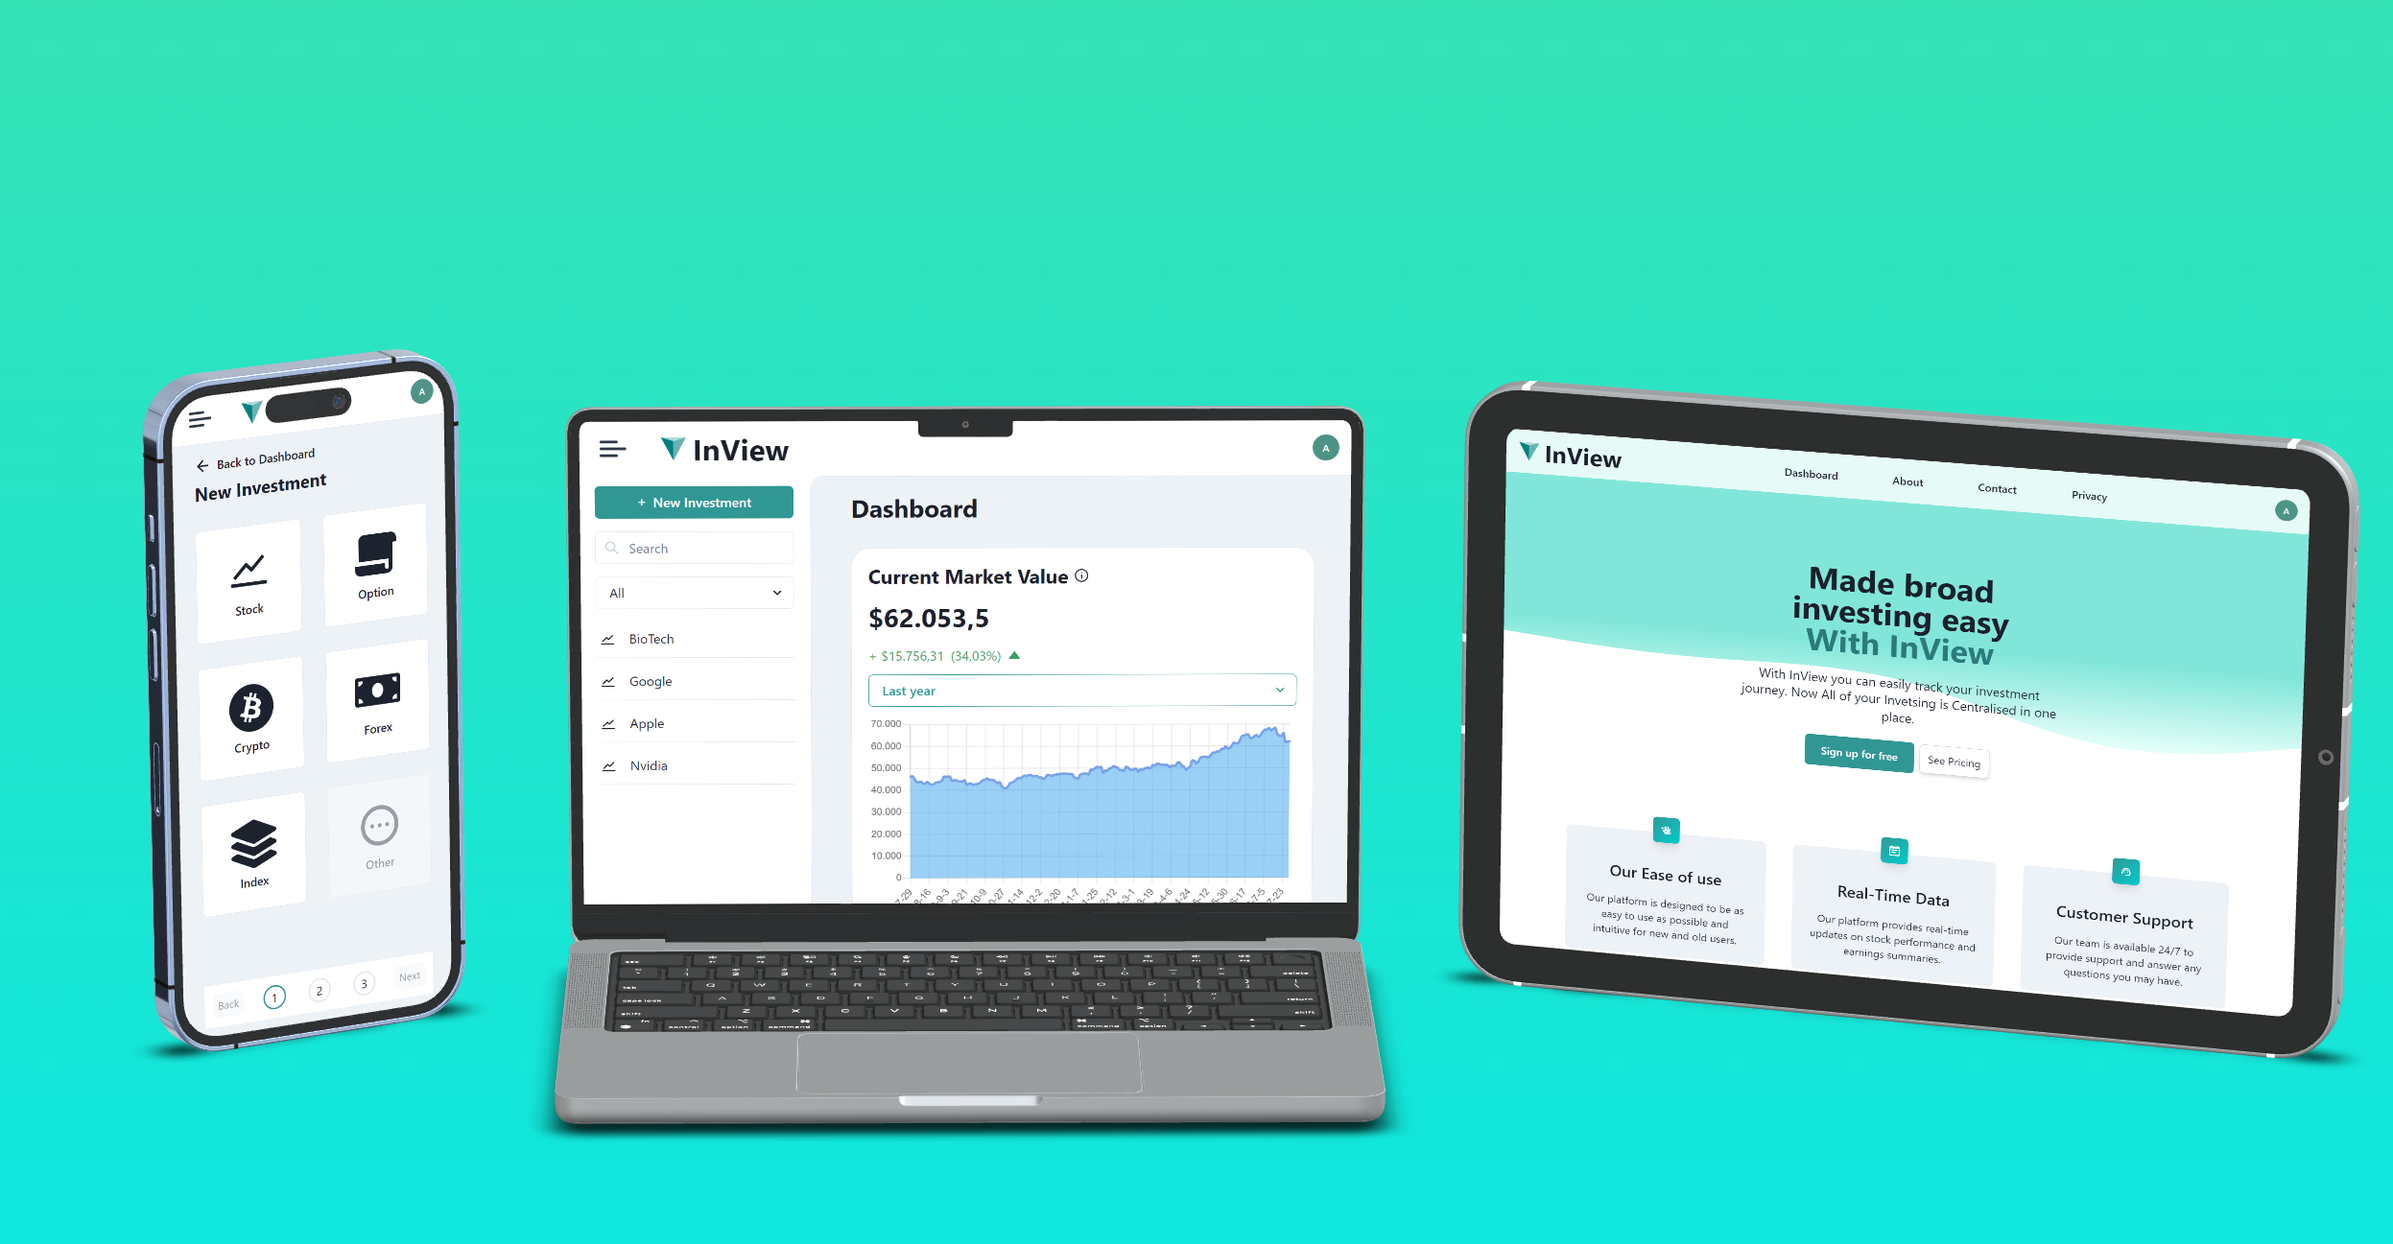
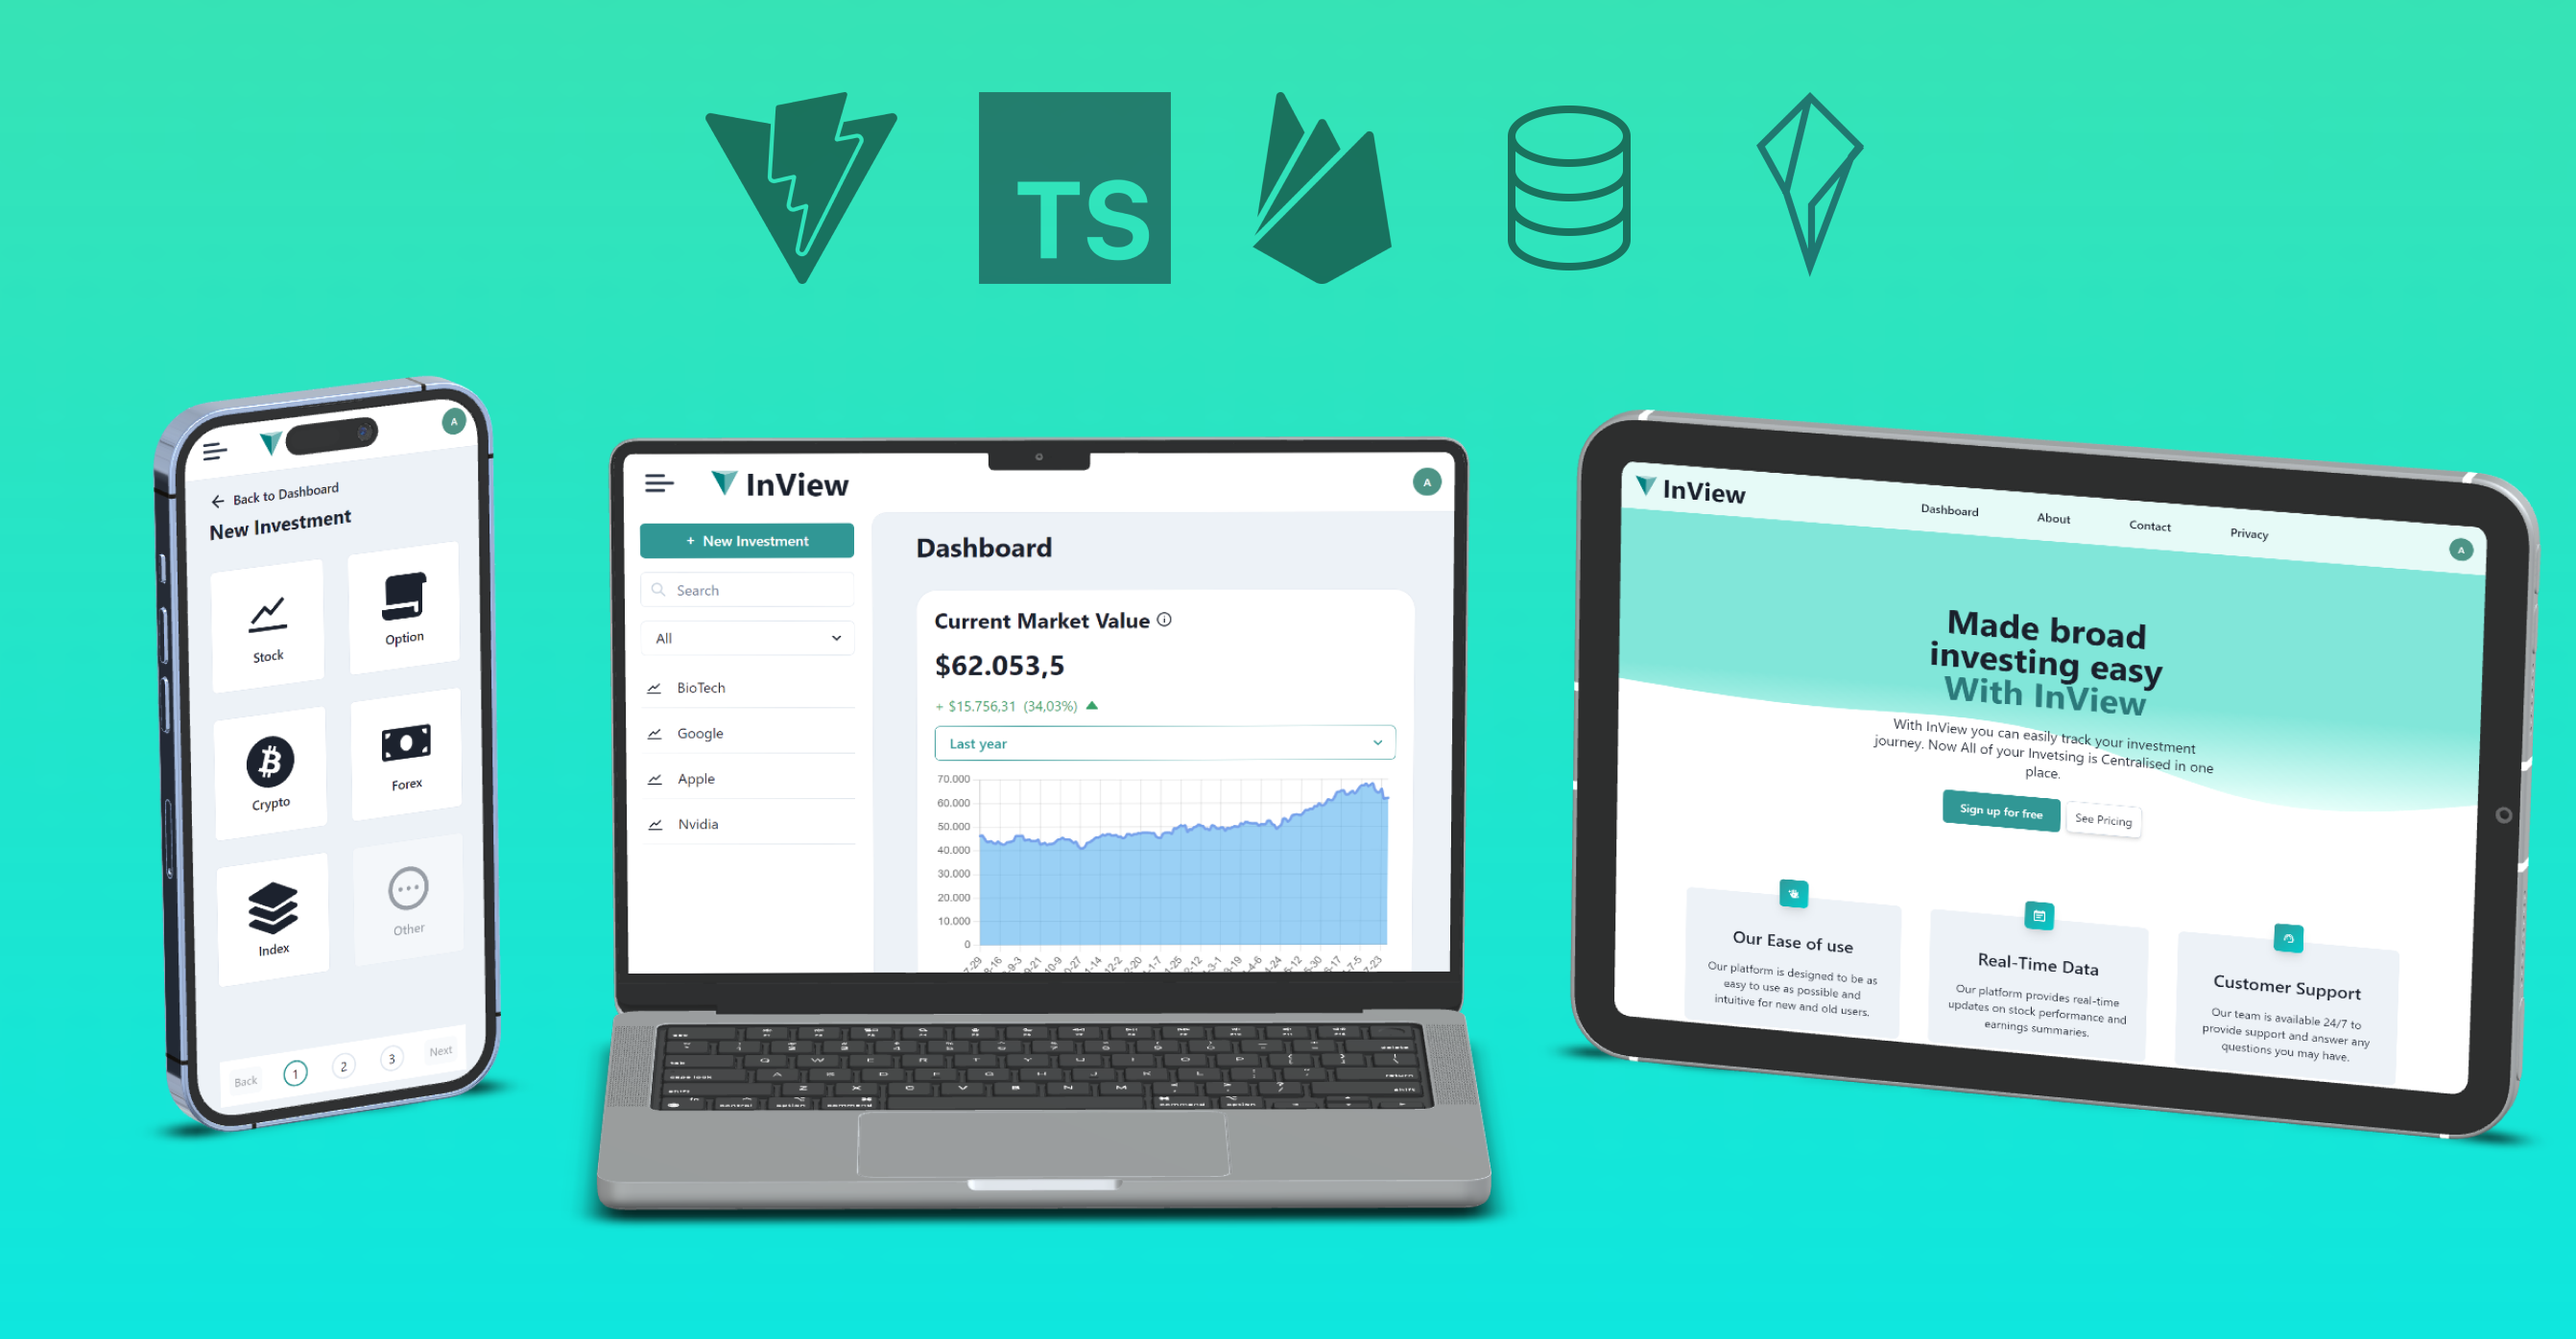
added a better inview pic

diff --git a/src/components/Skills.tsx b/src/components/Skills.tsx
@@ -1,11 +1,39 @@
-import { LanguagesDesktop } from './home/Languages'
-
+import { Flex, Heading, Box, Image, Text } from '@chakra-ui/react'
+import WordCloud from '../../public/assets/wordcloud.svg';
 export function Skills() {
 
     return (
         <>
-                <LanguagesDesktop />
-
+            <Flex
+                justifyContent={"center"}
+                alignItems={"center"}
+                flexDirection={"column"}
+                gap={4}
+                pt={"2rem"}
+            >
+                <Heading
+                    fontSize={"2rem"}
+                    color={"text.base"}
+                >
+                    Skills
+                </Heading>
+                <Text
+                    fontSize={"1.2rem"}
+                    color={"text.base"}
+                    textAlign={"center"}
+                >
+                    Here are some of the technologies I have worked with
+                </Text>
+                <Box
+                    width={"100%"}
+                    height={"100%"}
+                >
+                    <Image
+                        src={WordCloud}
+                        alt={"Word Cloud"}
+                    />
+                </Box>
+            </Flex>
         </>
     )
 }

diff --git a/src/components/nav/Footer.tsx b/src/components/nav/Footer.tsx
@@ -29,8 +29,8 @@ export function Footer() {
                 justifyContent={{ base: "center", md: "space-between" }}
                 bg={"background.base"}
                 color={"text.base"}
-                height={"10vh"}
                 width={"100%"}
+                my={4}
                 px={{ base: 4, md: 8 }}
                 fontSize={"1.4rem"}
                 flexDirection={{ base: "column", md: "row" }}

diff --git a/src/data/wordcloud.md b/src/data/wordcloud.md
@@ -1,0 +1,11 @@
+React Vite Next.js ReactNative Expo TypeScript JavaScript Java Python Git GitHub API REST Firebase Vercel Hosting DevOps Agile HTML CSS SQL PostgreSQL Node.js Docker Express AWS TailwindCSS Scrum OAuth UI/UX CI/CD Collaboration Cloud DSA Websockets Figma JSON UnitTesting Swagger Postman VM npm PWA
+
+Colors (Indian Color scheme on website):
+
+c98b2f
+803c27
+c56520
+e1b41b
+807916
+
+https://wordclouds.ethz.ch/
